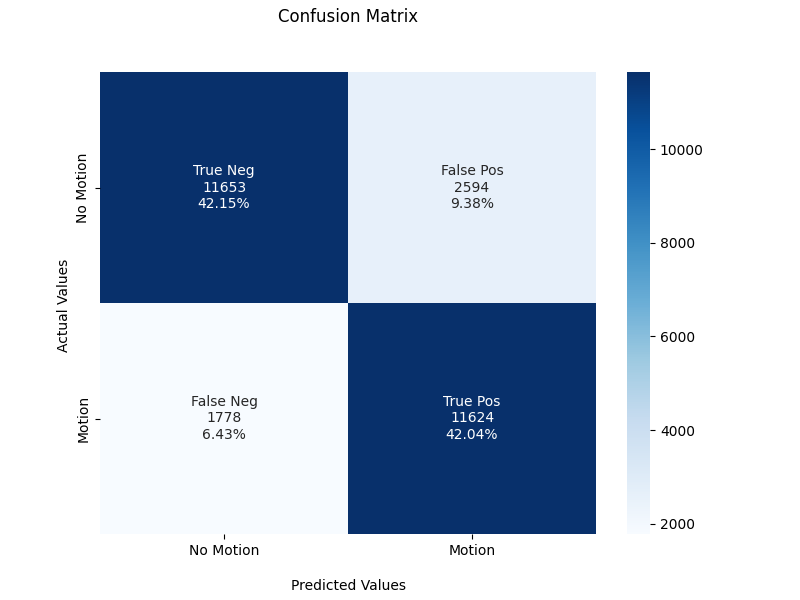
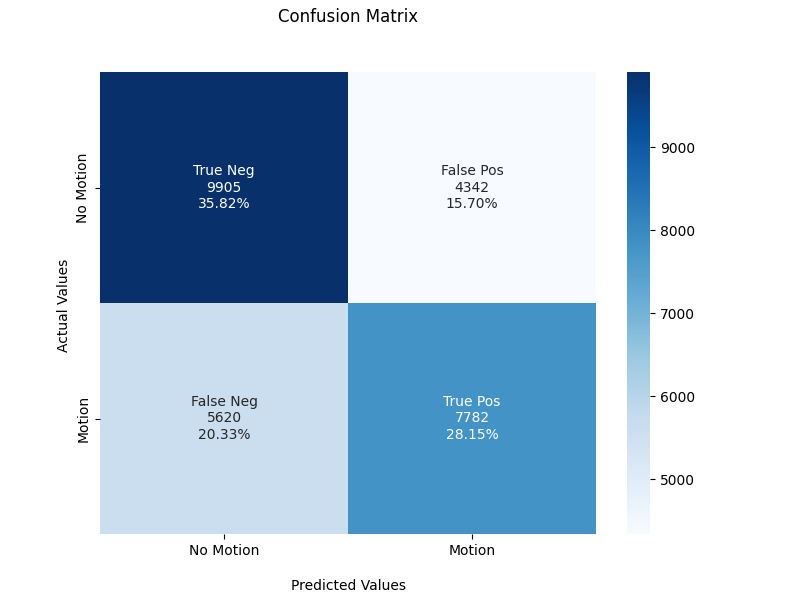
implemented a highpass filter (still need testing)

diff --git a/Python/classification/examples/data_analysis.py b/Python/classification/examples/data_analysis.py
@@ -9,14 +9,13 @@ import evaluation
 
 if __name__ == "__main__":
     train, val, test = utils.load_data()
-    train_data, train_label = utils.get_numpy_features(train)
-    val_data, val_label = utils.get_numpy_features(val)
-    test_data, test_label = utils.get_numpy_features(test)
-    print('ah')
+    train_data, train_label = utils.get_numpy_features(train, no_time=False)
+    val_data, val_label = utils.get_numpy_features(val, no_time=False)
+    test_data, test_label = utils.get_numpy_features(test, no_time=False)
     # x = preprocessing.mutual_information(train[0][:, 5:], train[1])
-    weeks = preprocessing.get_week_day(train_data)
+    weeks = preprocessing.get_week_day(test_data)
     df_heatmap = preprocessing.number_events(
-        x=weeks, y=train_data[:, 3], events=train_label, mean=True
+        x=weeks, y=test_data[:, 3], events=test_label, mean=True
     )
     weeks_name = [
         "Monday",

diff --git a/Python/classification/preprocessing/preprocessing.py b/Python/classification/preprocessing/preprocessing.py
@@ -1,6 +1,7 @@
 import datetime
 import numpy as np
 import pandas as pd
+from scipy.signal import butter, filtfilt
 
 
 def get_week_day(data):
@@ -24,3 +25,17 @@ def number_events(x, y, events, mean=False):
     if mean:
         matrix = np.around(matrix / total, decimals=2)
     return matrix
+
+
+def filter_day_periodicity(data):
+    # The cutoff frequency in Hz corresponds to one cycle per day
+    cutoff_frequency = 1 / (24 * 60)
+    filter_order = 4
+
+    b, a = butter(
+        N=filter_order, Wn=cutoff_frequency, btype="high", analog=False, output="ba"
+    )
+    filtered_data = np.zeros_like(data)
+    for i in range(data.shape[1]):
+        filtered_data[:, i] = filtfilt(b, a, data[:, i])
+    return filtered_data

diff --git a/Python/classification/models/svm.py b/Python/classification/models/svm.py
@@ -1,0 +1,14 @@
+import sys
+
+sys.path.append("Python/classification/")
+
+from utils import utils
+import models
+import evaluation
+
+
+if __name__ == "__main__":
+    train, val, test = utils.load_data(normalize=True)
+    train_data, train_label = utils.get_numpy_features(train, no_time=True)
+    test_data, test_label = utils.get_numpy_features(test, no_time=True)
+    val_data, val_label = utils.get_numpy_features(val, no_time=True)
